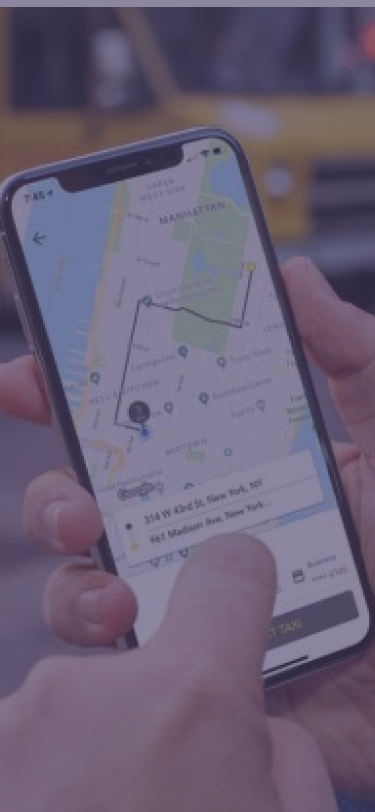
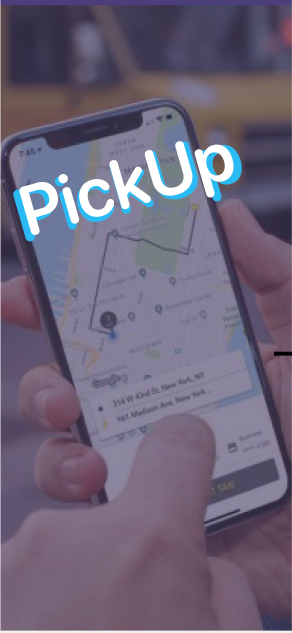
Ahora mapa muestra distancia, tiempo y precio
Cuando el usuario selecciona su destino se le mostrara la distancia en km  el tiempo en min y el precio del viaje. Welcome.js ahora muestra el logo de la aplicacion

diff --git a/components/MapComponent.js b/components/MapComponent.js
@@ -1,5 +1,5 @@
 import React, { Component } from 'react';
-import {StyleSheet, Dimensions} from "react-native";
+import {View, StyleSheet, Dimensions, Text} from "react-native";
 import MapView, { Marker } from "react-native-maps";
 import MapViewDirections from "react-native-maps-directions"
 
@@ -23,8 +23,14 @@ export default class MapComponent extends Component {
             
             },
             mapa: null,
-            watchID : null,
-            routeCoordinates: []
+            //watchID : null,
+            routeCoordinates: [],
+            distanciaRuta: 0,
+            duracionRuta: 0,
+            //Este tarifa es la mitad de la tarifa que cobran los taxis en BA
+            tarifaPorKm: 8.15,
+            precioViaje: 0,
+
         }
     }
 
@@ -126,12 +132,24 @@ export default class MapComponent extends Component {
                         }}
                         onReady={result => {
                             this.setState({routeCoordinates: result.coordinates})                            
-                            console.log(`Distance: ${result.distance} km`)
-                            console.log(`Duration: ${result.duration} min.`)
+                           
+                            var distance = result.distance.toFixed(1)
+                            var duration = result.duration.toFixed(1)
+                            var price = (distance * this.state.tarifaPorKm).toFixed(1)
+
+                            this.setState({distanciaRuta: distance})
+                            this.setState({duracionRuta: duration})
+                            this.setState({precioViaje: price})
               
                             this.mapa.fitToCoordinates(result.coordinates);
                           }}
                     />
+                   
+                   <View style={styles.rideInfo}>
+                        <Text>Distancia: {this.state.distanciaRuta} Km</Text>
+                        <Text>Tiempo Estimado: {this.state.duracionRuta} min</Text>
+                        <Text>Precio: {this.state.precioViaje} $</Text> 
+                   </View>
 
                     <Marker coordinate={this.state.routeCoordinates[this.state.routeCoordinates.length-1]}/>
                     <CurrentLocationButton  callBack={ () => this.centrarMapa()}/>
@@ -172,6 +190,15 @@ const styles = StyleSheet.create({
       width: Dimensions.get('window').width,
       height: Dimensions.get('window').height,
     },
+    rideInfo: {
+        marginLeft: 30,
+        marginVertical: 50,
+        padding: 20,
+        borderColor: "black",
+        borderWidth: 1,
+        position: "relative"
+
+    }
   });
 
 

diff --git a/components/ProfileImage.js b/components/ProfileImage.js
@@ -2,7 +2,7 @@ import React from "react";
 import {View, Image, StyleSheet} from "react-native";
 import { Ionicons } from '@expo/vector-icons'; 
 
-const ProfileImage = ({imagen, tamaño, imageURL}) => {
+const ProfileImage = ({imagen, tamaño, imageURL, borderColor, borderWidth}) => {
 
    //Esto es nuevo, hay que modificarlo para que funcione con imagenes dinamicas
     if(imageURL){
@@ -13,7 +13,8 @@ const ProfileImage = ({imagen, tamaño, imageURL}) => {
                     borderRadius: 200,
                     overflow: "hidden",
                     borderWidth: 4,
-                    borderColor: "#4CD964"
+                    borderWidth: borderWidth,
+                    borderColor: borderColor,
                     }}
             >
                 <Image 
@@ -26,8 +27,8 @@ const ProfileImage = ({imagen, tamaño, imageURL}) => {
         )
 
 
-    //Si el props imagen existe muestra esa imagen, sino muestra
-    //una por default
+    //Muestra una imagen de prueba en un archivo local, mejorar esto
+    //para obtenerla dinamicamente
     } else if(imagen){
         return(
             <View 
@@ -35,8 +36,8 @@ const ProfileImage = ({imagen, tamaño, imageURL}) => {
                     height: tamaño,
                     borderRadius: 200,
                     overflow: "hidden",
-                    borderWidth: 4,
-                    borderColor: "#4CD964"
+                    borderWidth: borderWidth,
+                    borderColor: borderColor
                     }}
             >
                 <Image 
@@ -68,7 +69,7 @@ const styles = StyleSheet.create({
         borderRadius: 150 / 2,
         overflow: "hidden",
         borderWidth: 3,
-        borderColor: "red"
+        borderColor: "#4CD964"
       },
 })
 

diff --git a/pages/History.js b/pages/History.js
@@ -29,10 +29,10 @@ class History extends Component {
 
 
     async  getHistorialData() {
-
+        console.log("se llamo al servidor");
+        
         //url servidor falso en github
         const url = "https://my-json-server.typicode.com/Alvaro-Orellana/json_Fake_server/posts"
-        const secondUrl = ""
 
         const response = await fetch(url)
         const json = await response.json()        
@@ -61,9 +61,10 @@ class History extends Component {
                                     <ProfileImage 
                                         imageURL={item.imageURL} 
                                         tamaño={65}
+                                        borderColor="#4CD964" borderWidth={2}
                                     />
 
-                                    <View style={{flex: 1, justifyContent: "center", marginLeft: 5}}>
+                                    <View style={{marginLeft: 10,}}>
                                         <Text style={styles.textStyle}>{item.userName} {item.userLastName}</Text>
                                         <Text >{item.date}</Text>   
 
@@ -106,14 +107,13 @@ const styles = StyleSheet.create({
         borderRadius:20,
         backgroundColor: "white",
         alignItems: "center",
-        shadowRadius: 3,
-        shadowOpacity: 1.0,
-        borderWidth: 2,
-        borderColor: "red"
+        borderWidth: 1.5,
+        borderColor: "#3CB9F9"
     },
     textStyle: {
         fontSize: 16,
         fontWeight: "bold",
+        paddingBottom: 7,
         
     },
 })

diff --git a/pages/Welcome.js b/pages/Welcome.js
@@ -47,13 +47,18 @@ const styles = StyleSheet.create({
         height: '100%',
         flex: 1
     },
-    bottomView: { flexDirection: 'row', flex: 2, position:'absolute', bottom: 0, marginBottom: 50},
+    bottomView: { 
+        flexDirection: 'row', 
+        position:'absolute',
+        bottom: 0, 
+        marginBottom: 50,
+    },
     buttonLogin: {
         marginTop: 10,
         width: '100%',
         paddingTop: 10,
-        marginLeft: 15,
-        marginRight: '25%',
+        marginLeft: 25,
+        marginRight: '23%',
         backgroundColor: '#3CB9F9',
     },
      buttonRegister: {

diff --git a/pages/Profile.js b/pages/Profile.js
@@ -54,8 +54,8 @@ function Profile({ navigation }){
                 showsVerticalScrollIndicator={false}
            >
 
-                    <View style={     {   alignItems: "center"}}>
-                    <ProfileImage tamaño={130} imagen={true}  />
+                    <View style={{alignItems: "center"}}>
+                    <ProfileImage tamaño={130} borderColor="#4CD964" borderWidth={4} imagen={true}  />
                     </View>
 
                     <Text style={styles.infoText}>Informacion Usuario</Text>

diff --git a/services/UserService.js b/services/UserService.js
@@ -15,8 +15,12 @@ export default class UserService {
         headers: { 'Content-Type': 'application/json' },
         body: JSON.stringify({ email, password })
     }
+
     const response =  await fetch(`${API_URL}/public/auth/login`, requestOptions);
-    console.log(response);
+    //Si logea una respuesta 
+    console.log(JSON.stringify(response));
+
+    //Pero este if no esta pasando
     if(response.code == 200){
       console.log("Success singing in");
       const { data } = response;

diff --git a/pages/Login.js b/pages/Login.js
@@ -34,11 +34,12 @@ function Login({ navigation }) {
 
     } catch(error) {
       console.log(error)
-        alert(error)
+      alert(error)
     }
   }
 
 
+  
   if (!fontsAreLoaded) {
     return <AppLoading />;
 
@@ -130,7 +131,7 @@ const styles = StyleSheet.create({
     alignItems: "center",
     backgroundColor: "#7D57FE",
     flexDirection: "column",
-    paddingTop: "10%",
+    paddingTop: "20%",
   },
   titleText: {
     fontFamily: "SF_Pro_Text",

diff --git a/App.js b/App.js
@@ -57,7 +57,7 @@ const BottomTabNavigatorConfig = {
 //que alguien ingresa, lo llevara a Welcome, Login o Register. Pero si ya
 //ingreso con su cuenta lo llevara directamente Home
 const switchNavigator = createSwitchNavigator({
-  
+
   // loginFlow: createStackNavigator({
   //   Welcome: WelcomePage,
   //   Register: RegisterPage,

diff --git a/pages/Register.js b/pages/Register.js
@@ -144,7 +144,7 @@ const styles = StyleSheet.create({
     alignItems: "center",
     backgroundColor: "#7D57FE",
     flexDirection: "column",
-    paddingTop: "10%",
+    paddingTop: "20%",
   },
   background: {
     width: "100%",
